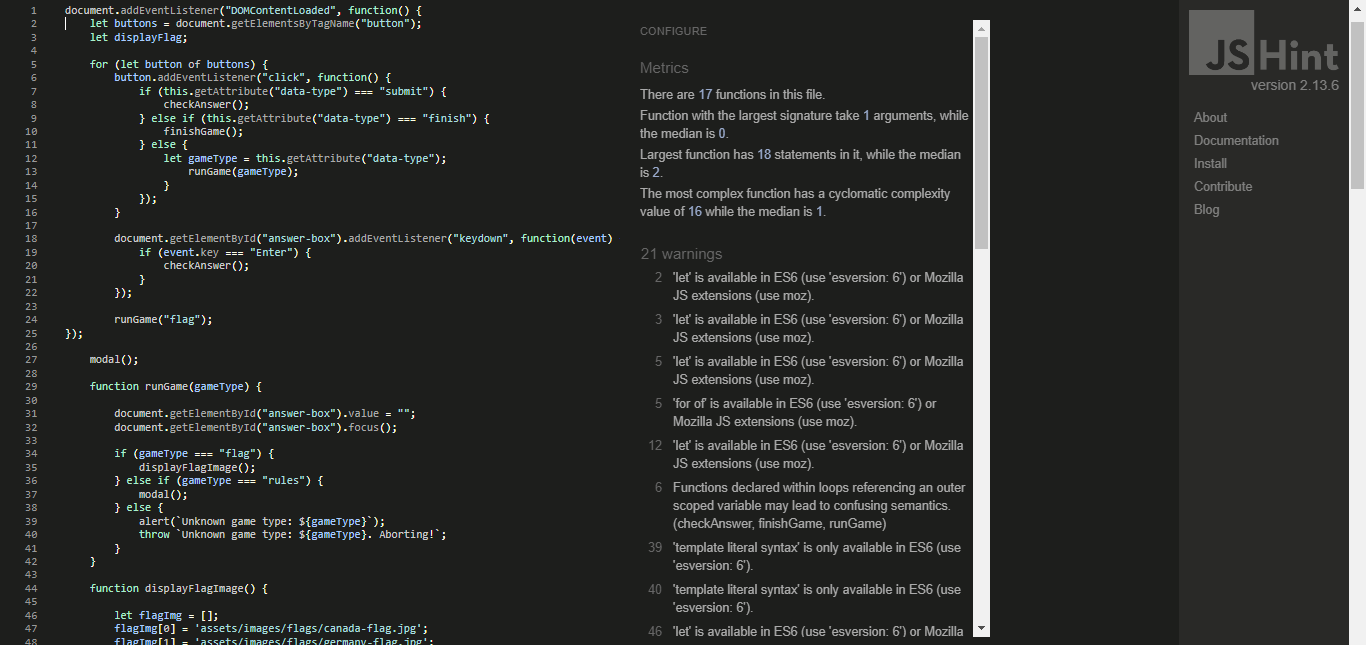
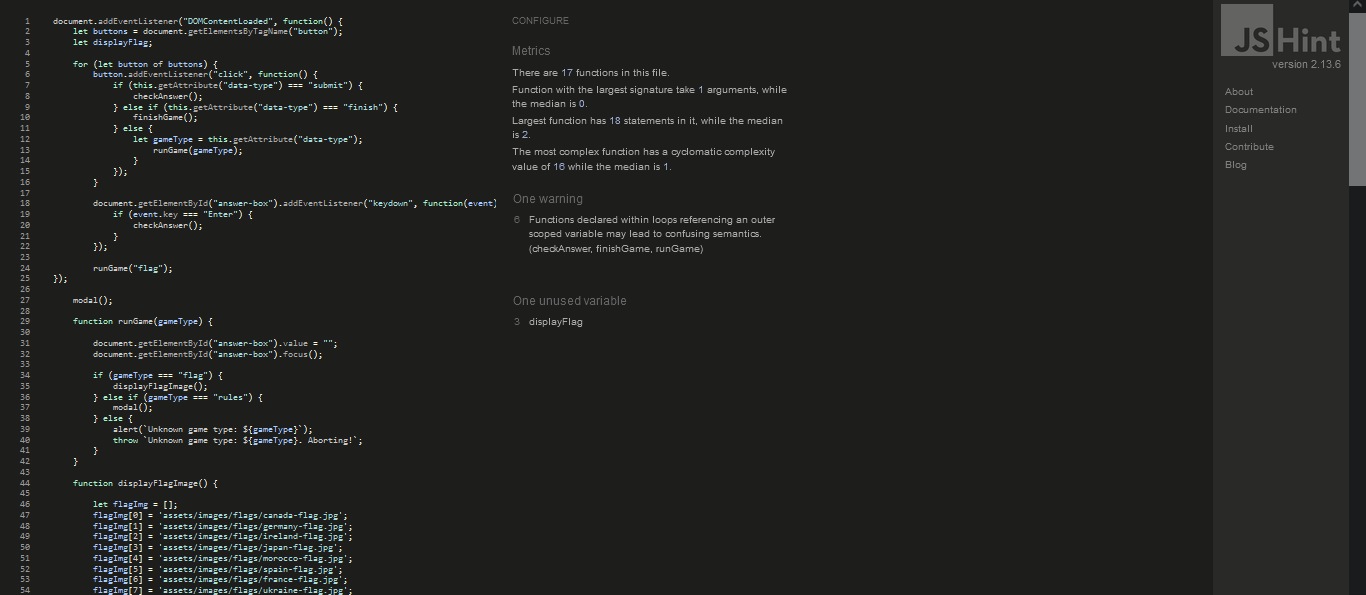
Update readme

diff --git a/README.md b/README.md
@@ -102,10 +102,9 @@ A new flag appears when the button is clicked. It also works if the image is cli
 
 <img src="assets/images/css-check.png" alt="CSS Flags quiz validation">
 
-* JS: 21 warning were found when passing through the JSHint validator about let variable.
+* JS: 1 warning was found when passing through the JSHint validator.
 
 <img src="assets/images/js-hint.png" alt="JS Flags quiz validation">
-<img src="assets/images/js-hint1.png" alt="JS Flags quiz validation part 2">
 
 * Lighthouse testing shows such results:
 
@@ -132,8 +131,12 @@ The site was created using Gitpod and pushed to GitHub to a remote repository.
 ## Credits
 
 ### Code
+I learned the trim method from:
+
+https://www.w3schools.com/jsref/jsref_trim_string.asp
+
 I learned how to code a modal from:
-<a href ="https://www.w3schools.com/howto/howto_css_modals.asp"></a>
+https://www.w3schools.com/howto/howto_css_modals.asp
 
 ### Content:
 * All icons were taken from Font Awesome.
